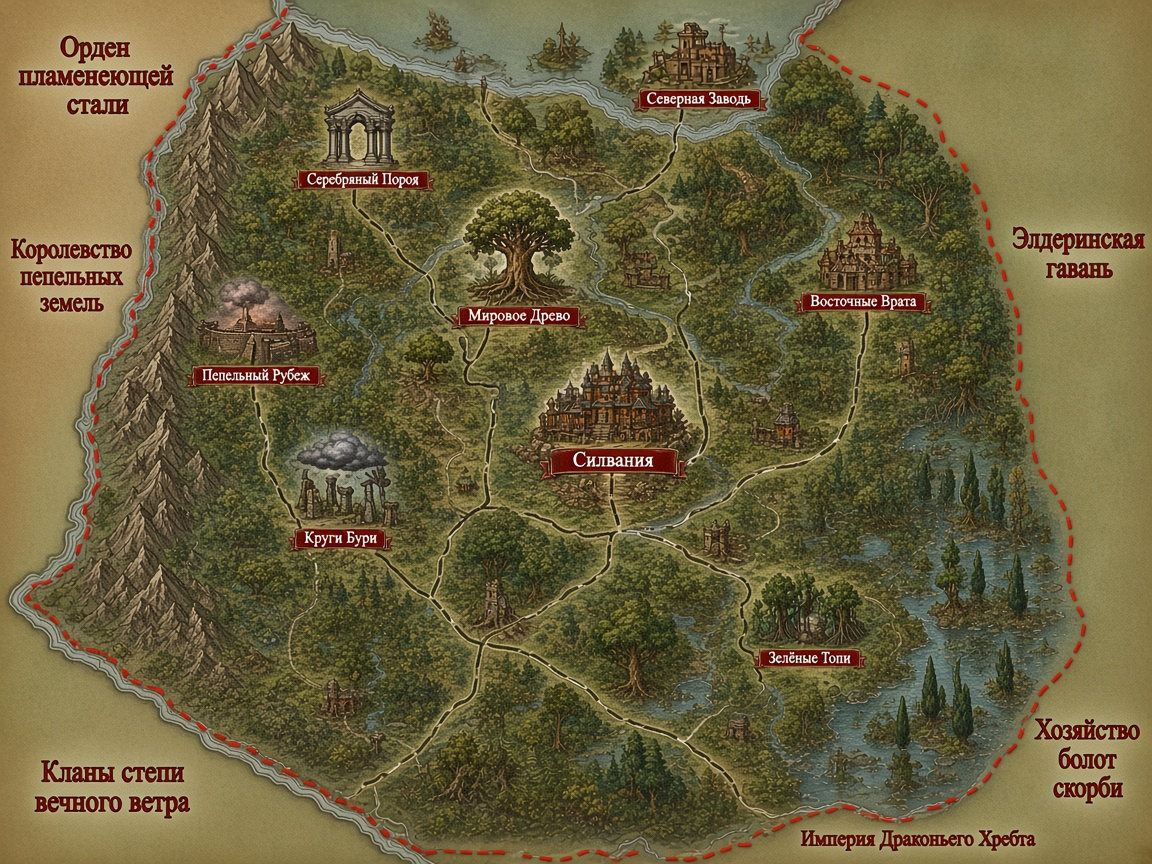
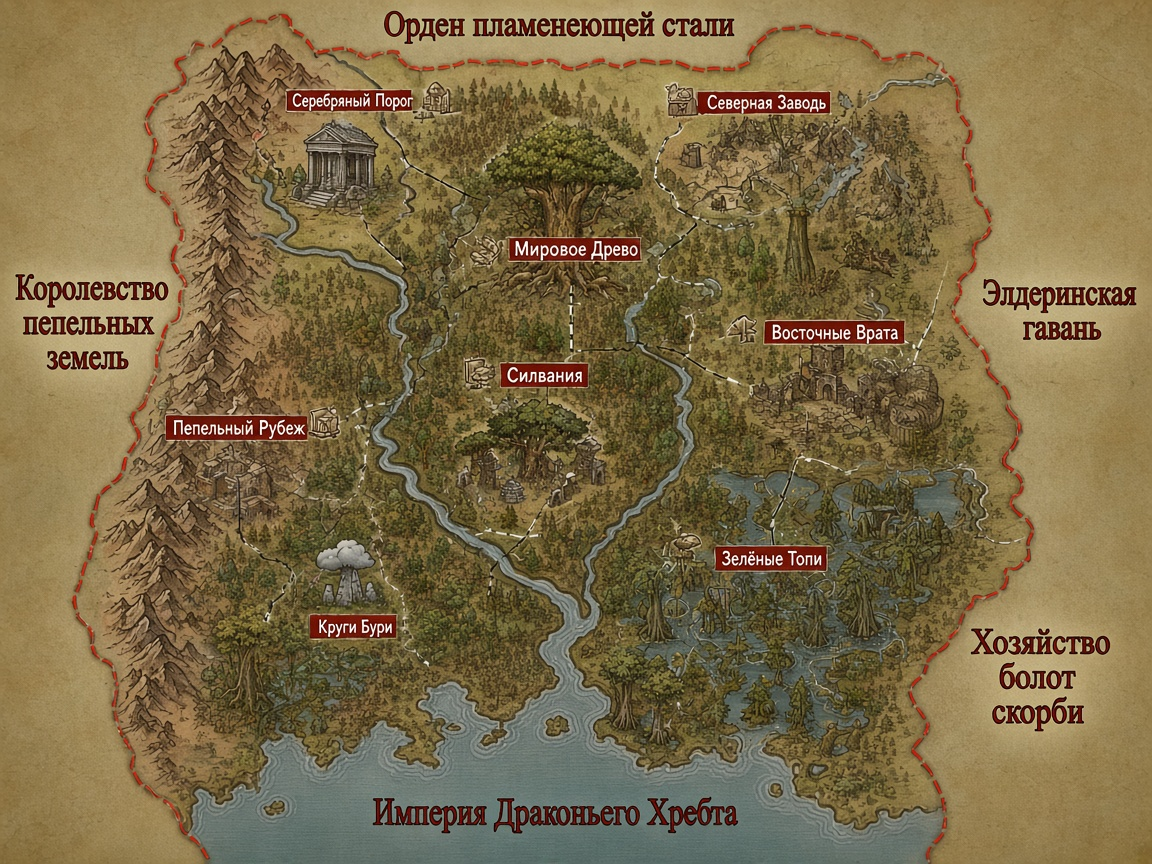
Regenerate Les Khraniteley map to match world-map borders.
Coastal south bay, western mountains, correct neighbors; Aelendor kept
as style reference only. Sync passport neighbor notes.

diff --git a/world/locations/les-khraniteley-map.md b/world/locations/les-khraniteley-map.md
@@ -2,28 +2,38 @@
 title: Карта Леса Хранителей
 status: canon
 tags: [geography, map, les-khraniteley, state]
-source: gm-request-2026-09-22 + generated-from-world-and-aelendor-refs
+source: gm-request-2026-09-22 + regen-borders-from-world-map
 fill_wave: 2
 ---
 
 # Карта Леса Хранителей
 
 Файл: [`assets/maps/les-khraniteley-map.jpg`](../../assets/maps/les-khraniteley-map.jpg)  
-Мир: [`world-map.md`](world-map.md) · эталон стиля: [`aelendor-map.md`](aelendor-map.md)  
+Мир: [`world-map.md`](world-map.md) · эталон **стиля** (не границ): [`aelendor-map.md`](aelendor-map.md)  
 Паспорт государства: [`states/les-khraniteley.md`](states/les-khraniteley.md)
 
-Красный пунктир — внешние границы государства. Белый пунктир — тропы / внутренние рубежи. Чёрные линии — дороги гонцов.
+Красный пунктир — **внешние границы государства с карты мира** (не контур Аэлендора). Белый пунктир — тропы. Чёрные линии — дороги гонцов.
+
+## Контур (чтение с карты мира)
+
+| Край | Что на мире |
+|---|---|
+| Запад | Горная стена Пепельных земель |
+| Север | Рубеж с Орденом пламенеющей стали |
+| Восток | Подступы к Элдеринской гавани |
+| Юго-восток | Переход к Болотам скорби |
+| Юг | **Берег залива** (не сухопутная граница с Хребтом) |
+| Сквозь лес | Река с запада в залив |
 
 ## Соседи (подписи на карте)
 
 | Сторона | Сосед |
 |---|---|
-| С / СЗ | **Орден пламенеющей стали** |
+| С | **Орден пламенеющей стали** |
 | З | **Королевство пепельных земель** |
-| ЮЗ | **Кланы степи вечного ветра** |
-| Ю | **Империя Драконьего Хребта** |
-| ЮВ | **Хозяйство болот скорби** |
 | В | **Элдеринская гавань** |
+| ЮВ | **Хозяйство болот скорби** |
+| Ю (через залив) | **Империя Драконьего Хребта** |
 
 ## Места с баннерами (канон карты)
 
@@ -40,7 +50,7 @@ fill_wave: 2
 
 ## Ландшафт (чтение карты)
 
-Густой смешанный полог; озёра и излучины; запад — горная стена; север — река; юго-восток — топи, переходящие к Болотам скорби. Ландшафт **намеренно плотнее**, чем на карте Аэлендора.
+Густой полог; река гора→залив; запад — скалы; юг — **рваный берег и острова залива**; ЮВ — топи. Не кольцо гор Аэлендора.
 
 ## Стык с аркой 3
 

diff --git a/world/locations/states/les-khraniteley.md b/world/locations/states/les-khraniteley.md
@@ -21,7 +21,7 @@ map_ref: assets/maps/les-khraniteley-map.jpg
 | Поле | Значение |
 |---|---|
 | Положение | ЮВ материка; густой лес между горами Пепельных земель и восточным побережьем |
-| Соседи | Орден пламенеющей стали (С); Пепельные земли (З); Кланы степи (ЮЗ); Драконий Хребет (Ю); Болота скорби (ЮВ); Элдеринская гавань (В) |
+| Соседи | Орден пламенеющей стали (С); Пепельные земли (З); Элдеринская гавань (В); Болота скорби (ЮВ); юг — **залив**, за ним Драконий Хребет |
 | Материк / острова | материк |
 | Файл карты | [`les-khraniteley-map.jpg`](../../assets/maps/les-khraniteley-map.jpg) |
 
@@ -82,9 +82,10 @@ map_ref: assets/maps/les-khraniteley-map.jpg
 | Разлом | вражда природе | совет друидов = ответ; якорь внутри государства спорный |
 | Орден пламенеющей стали | настороженно | речной сосед; торговля/гонцы через Заводь |
 | Элдеринская гавань | торговый коридор | Восточные Врата |
-| Пепельные земли / степи | холодный рубеж | Пепельный Рубеж |
+| Пепельные земли | холодный рубеж | Пепельный Рубеж |
 | Болота скорби | осторожность | топи как буфер |
-| Драконий Хребет | дальняя угроза/дым | южный горизонт |
+| Элдеринская гавань | торговый коридор | Восточные Врата |
+| Драконий Хребет | дальняя угроза за заливом | южный горизонт |
 
 ## Экономика
 
